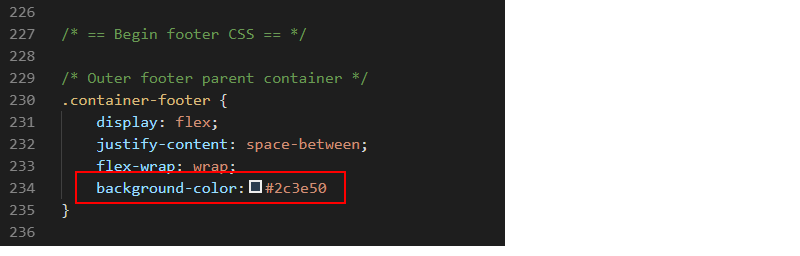
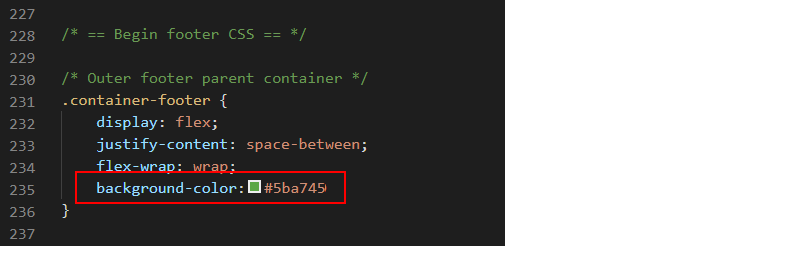
Software footer

diff --git a/webdev/projects/project-software-footer/index.html b/webdev/projects/project-software-footer/index.html
@@ -38,13 +38,13 @@ height="0" width="0" style="display:none;visibility:hidden"></iframe></noscript>
 <div class="jumbotron tutorial">
 	<h2>Software Analytics Website</h2>
 	<h3><a href="../../index.html" title="All HTML projects">Contents&nbsp;&nbsp;></a></h3>
-	<h1>HTML Project: 4: Footer</h1>
+	<h1>HTML Project 4: Footer</h1>
 </div>
 
 <section id="introduction" class="block-content bg-white">
 	<h2>Introduction</h2>
-	<p>In this task you will use template content to add a footer section with styles to the single-web page 'Software Analytics' project you <a href="../project-software/index.html">created earlier</a>.</p>
-	
+	<p>In this task you will use template content to add a footer section with styles to the single-web page 'Software Analytics' project you <a href="../project-software/index.html">created earlier</a> and to which you then added an <a href="../project-software-form/index.html">email sign-up form</a>.</p>
+
 	<p>You can display a <a href="https://ibat-web-dev.github.io/portfolio/software/footer/index.html" target="_blank" title="Web Design Project: Software Analytics 2n2l.com Brendan Munnelly">finished version</a> of the project web page on GitHub by clicking the image below.</p>
 	<p><a href="https://ibat-web-dev.github.io/portfolio/software/footer/index.html" class="img-link" target="_blank"><img SRC="assets/img/software-finished.png" alt="Web Design Project: Software Analytics 2n2l.com Brendan Munnelly"></a></p>
 
@@ -69,7 +69,6 @@ height="0" width="0" style="display:none;visibility:hidden"></iframe></noscript>
 		<h2>Contents</h2>
 		<p><a href="#introduction"></a></p>
 		<p><a href="#two-html-files">Working with your two HTML files</a></p>
-		<p><a href="#add-fa-head">Add the &lt;head&gt; link for the Font Awesome icons</a></p>
 		<p><a href="#copy-footer-html">Copy-and-paste the footer HTML</a></p>
 		<p><a href="#two-css-files">Working with your two CSS files</a></p>
 		<p><a href="#copy-footer-css">Copy-and-paste the footer CSS</a></p>
@@ -109,23 +108,6 @@ height="0" width="0" style="display:none;visibility:hidden"></iframe></noscript>
 </section>
 
 
-
-<section id="add-fa-head" class="block-content bg-white">
-
-	<h2>Add the &lt;head&gt; link for the Font Awesome icons</h2>
-	<p>Your footer will use <a href="https://fontawesome.com/icons?m=free" target="_blank">Font Awesome 5</a> icons. So you need to copy and paste the link to the Font Awesome stylesheet CSS file from the &lt;head&gt; section of the footer template file to the &lt;head&gt; section your <b>index.html</b> web page.</p>
-	<ol>
-		<li>In the footer template file, select the Font Awesome link from the &lt;head&gt; section and copy it.
-		<img src="assets/img/fa-icons-copy.png" alt="fa-icons-copy"></li>
-
-		<li>In your <b>index.html</b> web page, paste the copied Font Awesome link in the &lt;head&gt; section, just after the link to Google Fonts as shown below.
-		<img src="assets/img/fa-icons-paste.png" alt="fa-icons-copy"></li>
-	</ol>
-	<p>When finished, save your <b>index.html</b> web page.</p>
-
-</section>
-
-
 <section id="copy-footer-html" class="block-content bg-white">
 	<h2>Copy-and-paste the footer HTML</h2>
 	<p>Your next step is to copy content from the footer template file into your <b>index.html</b> web page.</p>
@@ -138,9 +120,9 @@ height="0" width="0" style="display:none;visibility:hidden"></iframe></noscript>
 			<img src="assets/img/vscode-footer-pasted-html.png" alt="fa-icons-copy"></li>
 			<li>Press the <b>ENTER</b> key a few times to open up some new lines of blank space.</li>
 			<li>Paste the copied footer content.</li>
-		</ul>
+		</li>
+		<li>When finished, save your <b>index.html</b> web page.</li>
 	</ol>
-	<p>When finished, save your <b>index.html</b> web page.</p>
 	<p>You can now close both the footer template file and your saved <b>index.html</b> web page.</p>
 </section>
 
@@ -185,11 +167,11 @@ height="0" width="0" style="display:none;visibility:hidden"></iframe></noscript>
 			<li>Press the <b>ENTER</b> key a few times to open up some new lines of blank space.</li>
 			<li>On the new last line, paste the copied footer styles.</li>
 		</ul>
+		</li>
+		<li>When finished, save your <b>style.css</b> stylesheet.</li>
 	</ol>
-	<p>When finished, save your <b>style.css</b> stylesheet.</p>
 	<p>You can now close both the template footer CSS file and your saved <b>style.css</b> stylesheet.</p>
 </section>
-
 
 
 <section id="footer-hyperlinks" class="block-content bg-white">
@@ -234,10 +216,11 @@ height="0" width="0" style="display:none;visibility:hidden"></iframe></noscript>
 </code></pre>
 </span></li>
 </ul></li>
+
+	<li>Save your <b>index.html</b> web page and view it in your web browser.</li>
 </ol>
 
-	<p>Save your <b>index.html</b> web page and view it in your web browser.</p>
-	<p>You are now finished working with this file and you can close it in Visual Studio.</p>
+	<p>You are now finished working with this file and you can close it in Visual Studio Code.</p>
 
 </section>
 
@@ -252,9 +235,16 @@ height="0" width="0" style="display:none;visibility:hidden"></iframe></noscript>
 		<li>Change the colour value from the dark grey of <b>#2c3e50</b> to the green of <b>#5ba745</b>.
 		<span class="inside-ol">&nbsp;</span>
 		If you are using the <b>footer-template-2.html</b> and <b>footer-template-2.css</b> template files, you will want to change the colour of the <b>.container-footer h5</b> text from grey (#8d9093) to white (#fff).</li>
+		<li>When finished, save your <b>style.css</b> stylesheet.</li>
 	</ol>
-	<p>When finished, save your <b>style.css</b> stylesheet.</p>
+	
 	<p>Display your web page in your web browser. It should now look correct and complete.</p>
+
+	<p>You can display a <a href="https://ibat-web-dev.github.io/portfolio/software/footer/index.html" target="_blank" title="Web Design Project: Software Analytics 2n2l.com Brendan Munnelly">finished version</a> of the project web page on GitHub by clicking the image below.</p>
+	<p><a href="https://ibat-web-dev.github.io/portfolio/software/footer/index.html" class="img-link" target="_blank"><img SRC="assets/img/software-finished.png" alt="Web Design Project: Software Analytics 2n2l.com Brendan Munnelly"></a></p>
+
+	<p>You view the alternative version with the centred footer <a href="https://ibat-web-dev.github.io/portfolio/software/footer-two/index.html" target="_blank">here</a>.</p>
+
 </section>
 
 
